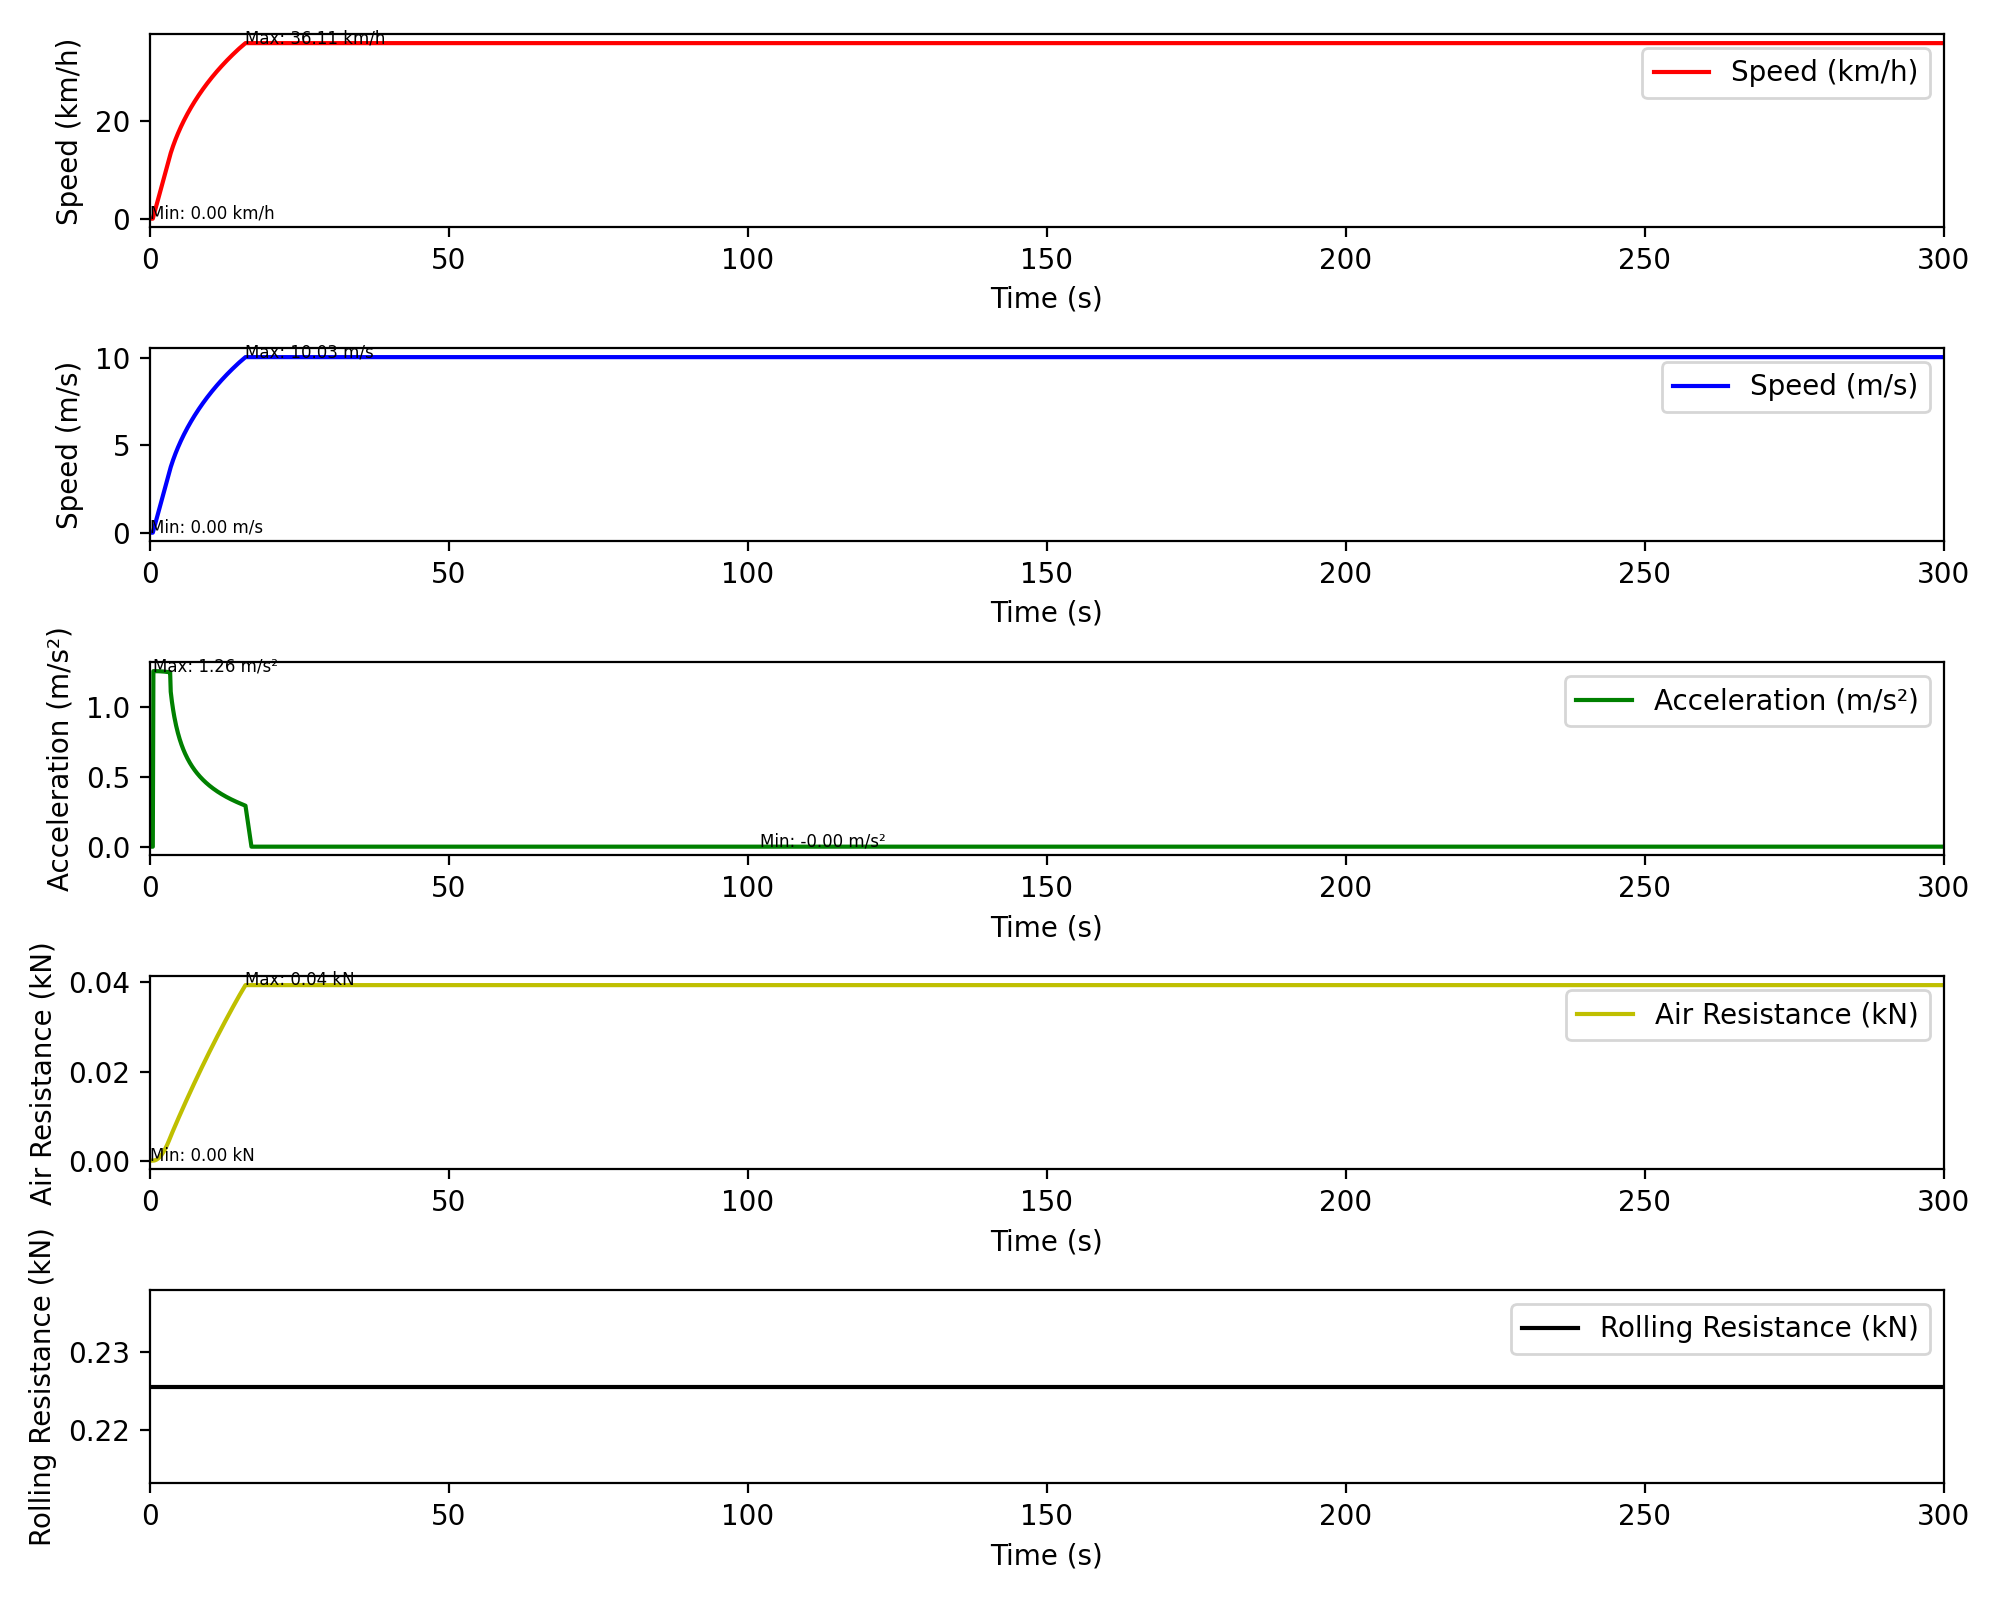
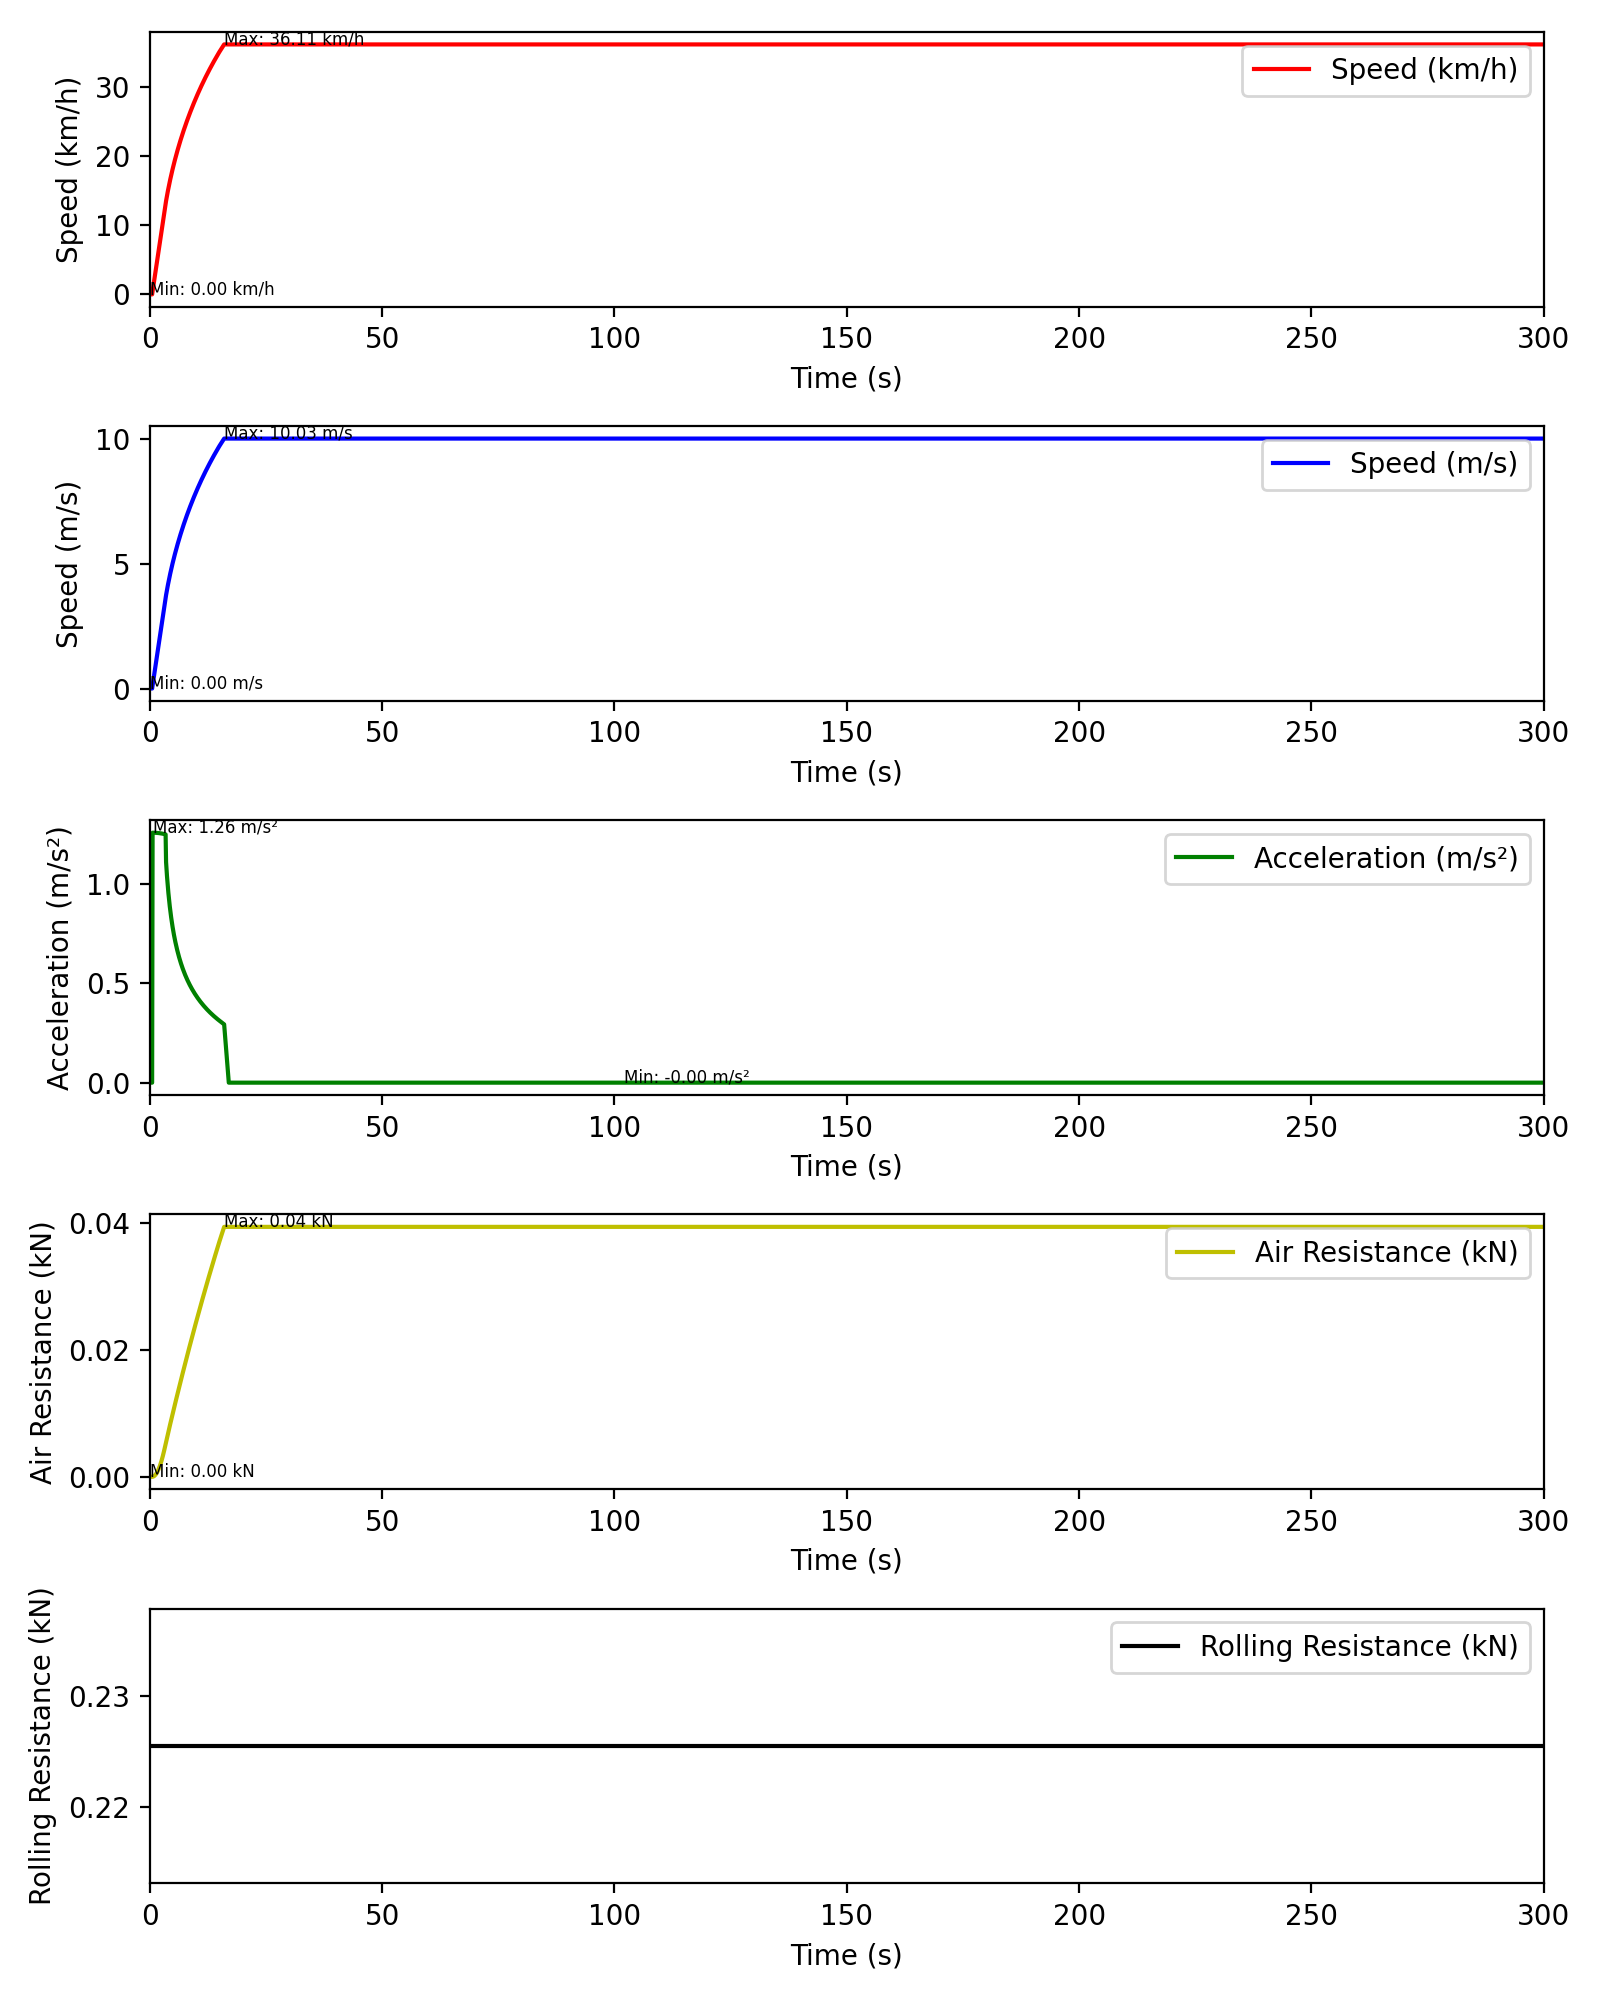
V41

diff --git a/Plot01_130_V2.py b/Plot01_130_V2.py
@@ -150,7 +150,7 @@ def plot_results(t, v, v_s, acceleration, Fair, Frolling, Fcl, InP, SoC, power_b
     time = 300
 
     
-    plt.figure(figsize=(8, 10))
+    plt.figure(figsize=(6, 8))
 
     # Plot speed and forces
     plt.subplot(5, 1, 1)
